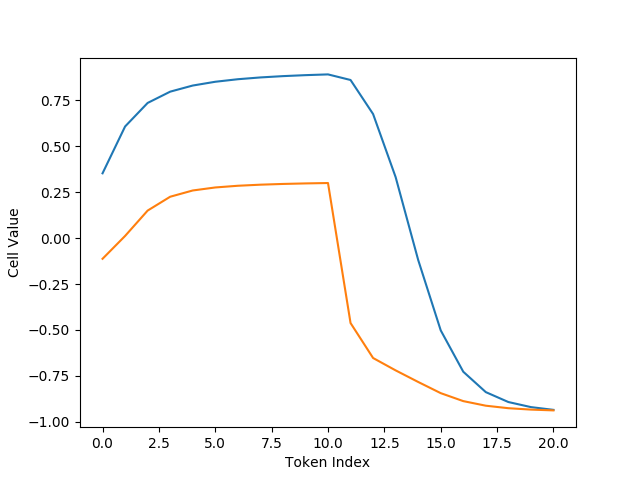
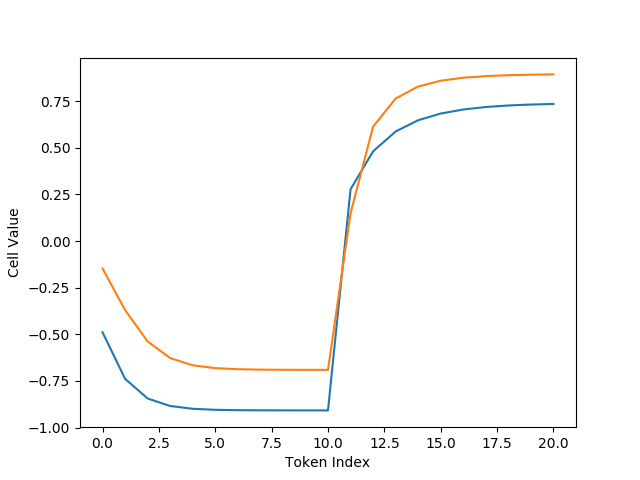
Added noise experiments.

diff --git a/ai2_language_model.py b/ai2_language_model.py
@@ -5,7 +5,7 @@ import random
 import torch
 from allennlp.models import Model
 from allennlp.modules.text_field_embedders import BasicTextFieldEmbedder
-from allennlp.training.metrics import Average, CategoricalAccuracy
+from allennlp.training.metrics import CategoricalAccuracy
 from allennlp.data.iterators import BucketIterator
 from allennlp.data.vocabulary import Vocabulary
 from allennlp.training.trainer import Trainer
@@ -17,10 +17,19 @@ import matplotlib.pyplot as plt
 
 from data_readers.anbn import ANBNDatasetReader
 from data_readers.wwr import WWRDatasetReader
+from noisy_rnn import make_noisy_rnn_type
 from predictor import LanguageModelPredictor
 
 
 _NUM_EMBEDDINGS = 5
+_MODELS = {
+    "srn": torch.nn.RNN,
+    "gru": torch.nn.GRU,
+    "lstm": torch.nn.LSTM,
+    "noisy-srn": make_noisy_rnn_type(torch.nn.RNNCell),
+    "noisy-lstm": make_noisy_rnn_type(torch.nn.LSTMCell),
+    "noisy-gru": make_noisy_rnn_type(torch.nn.GRUCell),
+}
 
 
 class LanguageModel(Model):
@@ -35,13 +44,13 @@ class LanguageModel(Model):
         self._c_idx = vocab.get_token_index("c")
         embedding = torch.nn.Embedding(_NUM_EMBEDDINGS, embedding_dim)
         self._embedder = BasicTextFieldEmbedder({"tokens": embedding})
-        self._rnn = torch.nn.LSTM(embedding_dim, rnn_dim, batch_first=True)
+        self._rnn = rnn_type(embedding_dim, rnn_dim, batch_first=True)
         self._ff = torch.nn.Linear(rnn_dim, self._vocab_size)
 
         self._acc = CategoricalAccuracy()
         self._c_acc = CategoricalAccuracy()
-        self._second_half_acc = CategoricalAccuracy()
-    
+        # self._second_half_acc = CategoricalAccuracy()
+
     def forward(self, sentence, labels=None):
         mask = get_text_field_mask(sentence)
         embeddings = self._embedder(sentence)
@@ -56,12 +65,12 @@ class LanguageModel(Model):
 
         if labels is not None:
             c_mask = (labels == self._c_idx).long()
-            midpoint_idx = labels.size(1) // 2
-            second_half_mask = torch.zeros_like(mask)
-            second_half_mask[:, midpoint_idx + 1:] = 1
+            # midpoint_idx = labels.size(1) // 2
+            # second_half_mask = torch.zeros_like(mask)
+            # second_half_mask[:, midpoint_idx + 1:] = 1
             self._acc(logits, labels, mask)
             self._c_acc(logits, labels, mask * c_mask)
-            self._second_half_acc(logits, labels, mask * second_half_mask)
+            # self._second_half_acc(logits, labels, mask * second_half_mask)
             loss = sequence_cross_entropy_with_logits(logits, labels, mask)
             results["loss"] = loss
 
@@ -101,18 +110,13 @@ def main(task_name="count",
         train_dataset_reader = WWRDatasetReader(1000, 3, 20)
         train_dataset = train_dataset_reader.build()
         test_dataset = WWRDatasetReader(100, 100, 102).build()
-    vocab = Vocabulary.from_instances(train_dataset + test_dataset)  # This is just {a, b}.
+    vocab = Vocabulary.from_instances(train_dataset + test_dataset)
 
-    if model_name == "srn":
-        rnn_type = torch.nn.RNN
-    elif model_name == "gru":
-        rnn_type = torch.nn.GRU
-    elif model_name == "lstm":
-        rnn_type = torch.nn.LSTM
-
+    rnn_type = _MODELS[model_name]
     model = LanguageModel(vocab, rnn_type=rnn_type, rnn_dim=rnn_dim)
     optimizer = torch.optim.Adam(model.parameters())
-    iterator = BucketIterator(batch_size=16, sorting_keys=[("sentence", "num_tokens")])
+    iterator = BucketIterator(batch_size=16,
+                              sorting_keys=[("sentence", "num_tokens")])
     iterator.index_with(vocab)
 
     filename = "%s-%d" % (model_name, rnn_dim)
@@ -125,8 +129,7 @@ def main(task_name="count",
                           iterator=iterator,
                           train_dataset=train_dataset,
                           num_epochs=5,
-                          validation_dataset=test_dataset,
-                         )
+                          validation_dataset=test_dataset)
         trainer.train()
         with open("models/%s.th" % filename, "wb") as fh:
             torch.save(model.state_dict(), fh)
@@ -140,7 +143,7 @@ def main(task_name="count",
         random.seed(2)
         tokens = train_dataset_reader.get_random_tokens()
         sentence = " ".join(tokens)
-    predictor = LanguageModelPredictor(model, train_dataset_reader)    
+    predictor = LanguageModelPredictor(model, train_dataset_reader)
     plot_rnn_states(predictor, sentence)
     plt.savefig("plots/%s.png" % filename)
 
@@ -148,7 +151,7 @@ def main(task_name="count",
 def parse_args():
     parser = argparse.ArgumentParser()
     parser.add_argument("task", choices=["count", "reverse"])
-    parser.add_argument("model", choices=["srn", "gru", "lstm"])
+    parser.add_argument("model", choices=_MODELS.keys())
     parser.add_argument("--dim", type=int, default=2)
     parser.add_argument("--notrain", action="store_true")
     return parser.parse_args()

diff --git a/noisy_rnn.py b/noisy_rnn.py
@@ -1,0 +1,50 @@
+from overrides import overrides
+import torch
+
+
+class NoisyRNN(torch.nn.Module):
+
+    def __init__(self,
+                 input_dim,
+                 hidden_dim,
+                 rnn_cell_type=torch.nn.RNNCell,
+                 std=.1,
+                 batch_first=None):
+        # batch_first is an unused argument to accomodate the interface.
+        super().__init__()
+        self._hidden_dim = hidden_dim
+        self._std = std
+        self._rnn_cell = rnn_cell_type(input_dim, hidden_dim)
+
+    def _make_means_and_stds(self, batch_size):
+        means = torch.zeros(batch_size, self._hidden_dim)
+        stds = torch.Tensor(batch_size, self._hidden_dim)
+        stds.fill_(self._std)
+        return means, stds
+
+    @overrides
+    def forward(self, inputs):
+        batch_size, sequence_length, _ = inputs.shape
+        state = torch.zeros(batch_size, self._hidden_dim)
+        cell_state = torch.zeros(batch_size, self._hidden_dim)
+        states = []
+        for t in range(sequence_length):
+            means, stds = self._make_means_and_stds(batch_size)
+            noise = torch.normal(means, stds)
+            if isinstance(self._rnn_cell, torch.nn.LSTMCell):
+                cell_state = cell_state + noise
+                state, cell_state = self._rnn_cell(inputs[:, t, :],
+                                                   [state, cell_state])
+            else:
+                state = state + noise
+                state = self._rnn_cell(inputs[:, t, :], state)
+            states.append(state)
+        return torch.stack(states, dim=1), state
+
+
+def make_noisy_rnn_type(rnn_cell_type):
+    class CustomNoisyRNN(NoisyRNN):
+        def __init__(self, *args, **kwargs):
+            kwargs["rnn_cell_type"] = rnn_cell_type
+            super().__init__(*args, **kwargs)
+    return CustomNoisyRNN
